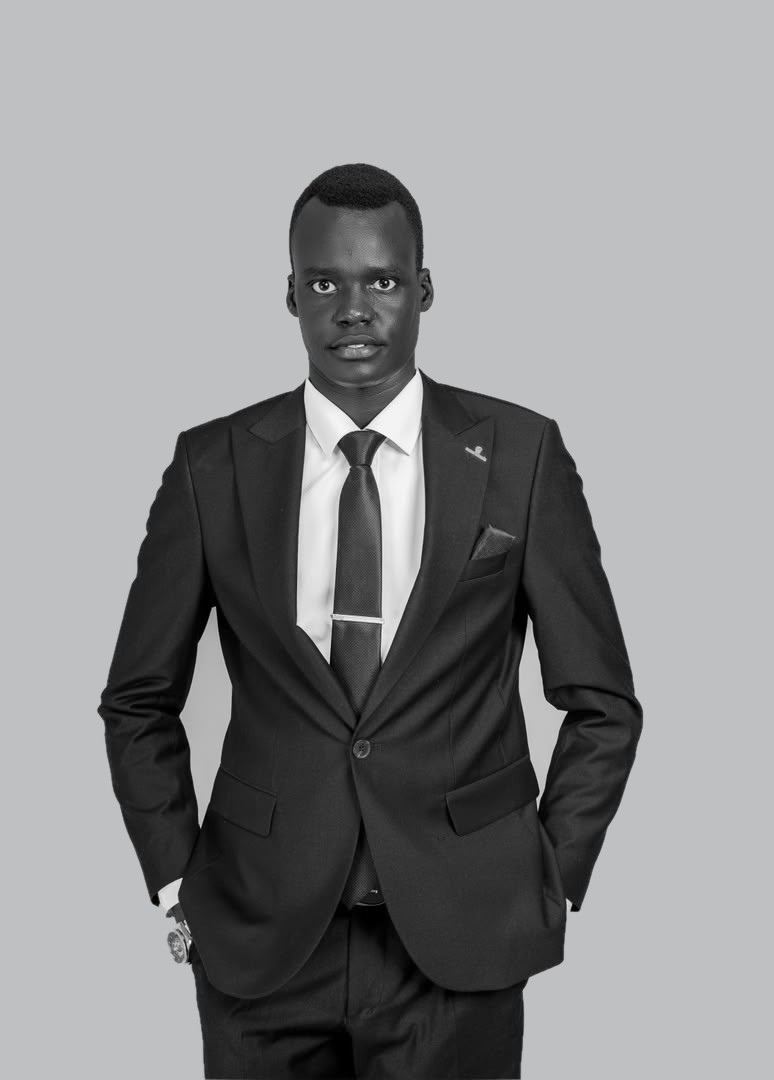
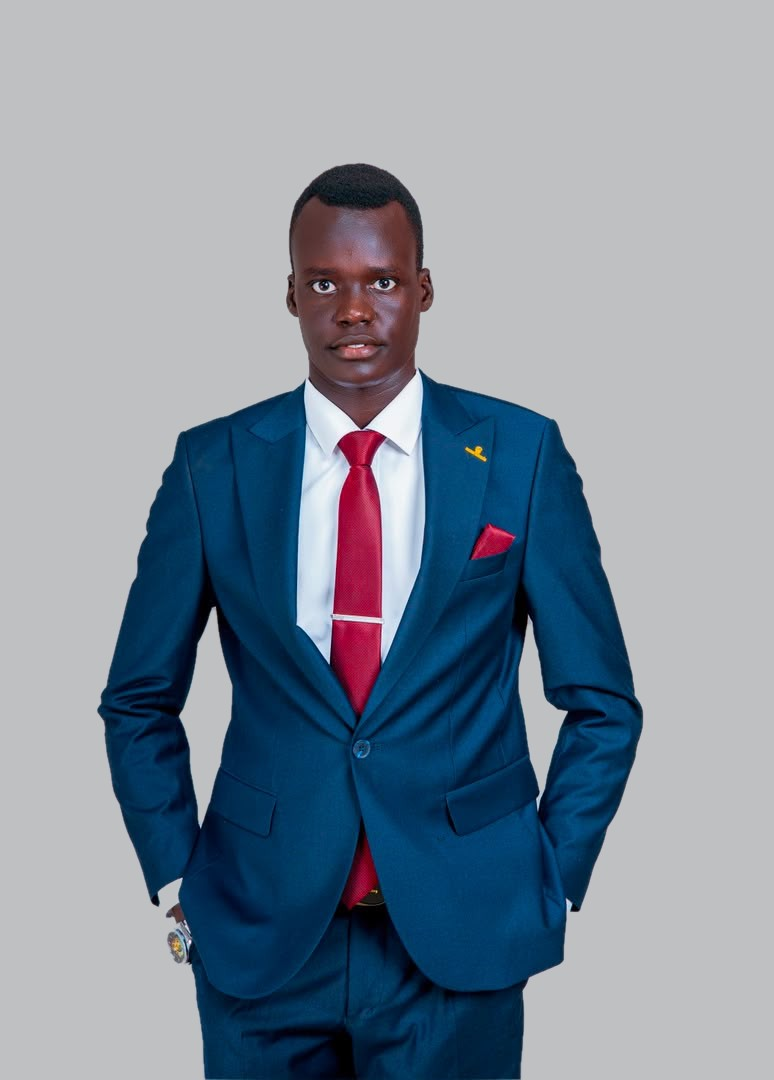
Use colour photography and show Nile Green Group structure

diff --git a/src/app/page.module.css b/src/app/page.module.css
@@ -14,7 +14,6 @@
   letter-spacing: -0.02em;
 }
 .statement { max-width: 32em; margin: 34px 0 0; font-size: clamp(1.15rem, 1.5vw, 1.4rem); line-height: 1.45; }
-.tagline { margin: 22px 0 0; font-weight: 600; }
 .actions { display: flex; flex-wrap: wrap; gap: 14px; margin-top: 34px; }
 .primary, .secondary, .invert { display: inline-block; padding: 14px 26px; text-decoration: none; border: 1px solid var(--black); }
 .primary { background: var(--black); color: var(--white); }
@@ -25,8 +24,10 @@
 .portrait img { display: block; width: 100%; height: auto; }
 .line { position: absolute; left: 0; right: 0; bottom: -1px; width: 100%; height: clamp(80px, 12vw, 170px); z-index: 2; fill: var(--black); }
 
-.practice { display: grid; grid-template-columns: minmax(0, 0.8fr) minmax(0, 1.2fr); gap: clamp(32px, 7vw, 120px); align-items: center; background: var(--black); color: var(--white); padding: 40px var(--gutter) 130px; }
-.practiceImage img { display: block; width: 100%; height: auto; }
+.practice { display: grid; grid-template-columns: minmax(0, 1.05fr) minmax(0, 0.95fr); gap: clamp(32px, 7vw, 120px); align-items: center; background: var(--black); color: var(--white); padding: 40px var(--gutter) 130px; }
+.practiceImages { display: grid; grid-template-columns: repeat(2, minmax(0, 1fr)); gap: 16px; align-items: start; }
+.practiceImages img { display: block; width: 100%; height: auto; }
+.practiceImages img:last-child { margin-top: 72px; }
 .practiceText h2 { font-size: clamp(2.2rem, 4.2vw, 4.2rem); line-height: 1.06; max-width: 13em; }
 .practiceText p { max-width: 36em; color: var(--mist); margin: 26px 0 0; }
 
@@ -48,10 +49,14 @@
 .groups span { color: var(--graphite); font-size: 1rem; }
 
 .ventures { padding: 130px var(--gutter); }
-.ventureList { display: grid; grid-template-columns: repeat(3, minmax(0, 1fr)); gap: clamp(32px, 5vw, 80px); margin-top: 60px; }
+.holding { display: grid; grid-template-columns: minmax(0, 1fr) minmax(0, 1fr); gap: 32px; align-items: center; margin-top: 56px; padding-bottom: 56px; border-bottom: 1px solid var(--silver); }
+.holdingLogo img { display: block; width: min(100%, 380px); height: auto; mix-blend-mode: multiply; }
+.holding h3 { font-size: clamp(2rem, 3vw, 2.9rem); line-height: 1.1; }
+.holding p { margin: 0; max-width: 34em; }
+.holding .status { margin-top: 6px !important; margin-bottom: 14px !important; }
+.ventureList { display: grid; grid-template-columns: repeat(2, minmax(0, 1fr)); gap: clamp(32px, 5vw, 80px); margin-top: 56px; }
 .ventureLogo { height: 120px; display: flex; align-items: center; margin-bottom: 26px; }
-.ventureLogo img { max-height: 120px; width: auto; max-width: 200px; filter: grayscale(1); mix-blend-mode: multiply; transition: filter 0.25s; }
-.ventureList article:hover img { filter: none; }
+.ventureLogo img { max-height: 120px; width: auto; max-width: 200px; mix-blend-mode: multiply; }
 .ventureList h3 { font-size: 1.75rem; line-height: 1.15; }
 .ventureList p { margin: 0; max-width: 30em; }
 .ventureList .status { margin-top: 6px !important; margin-bottom: 14px !important; }
@@ -73,7 +78,8 @@
   .actions { gap: 10px; margin-top: 26px; }
   .statement { margin-top: 22px; }
   .portrait { justify-self: center; max-width: 440px; padding-bottom: 20px; }
-  .practice, .work li, .groups, .ventureList, .insights { grid-template-columns: 1fr; }
+  .practice, .work li, .groups, .ventureList, .insights, .holding { grid-template-columns: 1fr; }
+  .practiceImages img:last-child { margin-top: 40px; }
   .work, .services, .ventures { padding-block: 84px; }
   .practice { padding-bottom: 84px; }
   .work li { gap: 10px; }

diff --git a/src/app/page.tsx b/src/app/page.tsx
@@ -1,6 +1,6 @@
 import Image from 'next/image'
 import Link from 'next/link'
-import { selectedWork, serviceGroups, site, ventures } from '@/content/site'
+import { holdingCompany, selectedWork, serviceGroups, site, ventures } from '@/content/site'
 import styles from './page.module.css'
 
 export default function HomePage() {
@@ -17,7 +17,6 @@ export default function HomePage() {
             I started a packaging company in Juba and built a flood-risk system for the Sudd. Now I help
             people and organisations turn their own ideas into work that gets finished.
           </p>
-          <p className={styles.tagline}>{site.tagline}</p>
           <div className={styles.actions}>
             <Link className={styles.primary} href="/work">
               See my work
@@ -30,7 +29,7 @@ export default function HomePage() {
         <div className={styles.portrait}>
           <Image
             src="/images/portrait-hero.jpg"
-            alt="Daniel Marial Reng Kudum in a dark suit and tie"
+            alt="Daniel Marial Reng Kudum in a navy suit and red tie"
             width={774}
             height={1080}
             priority
@@ -43,13 +42,20 @@ export default function HomePage() {
       </section>
 
       <section className={styles.practice}>
-        <div className={styles.practiceImage}>
+        <div className={styles.practiceImages}>
+          <Image
+            src="/images/flags-hall.jpg"
+            alt="Daniel standing beside the flag of South Sudan in a hall of national flags"
+            width={720}
+            height={1280}
+            sizes="(max-width: 800px) 46vw, 25vw"
+          />
           <Image
             src="/images/at-work.jpg"
             alt="Daniel working on a laptop at a curved wooden desk"
             width={592}
             height={1080}
-            sizes="(max-width: 800px) 100vw, 34vw"
+            sizes="(max-width: 800px) 46vw, 25vw"
           />
         </div>
         <div className={styles.practiceText}>
@@ -105,6 +111,16 @@ export default function HomePage() {
 
       <section className={styles.ventures}>
         <h2>Companies I have founded</h2>
+        <article className={styles.holding}>
+          <div className={styles.holdingLogo}>
+            <Image src={holdingCompany.logo} alt={`${holdingCompany.name} logo`} width={holdingCompany.width} height={holdingCompany.height} sizes="360px" />
+          </div>
+          <div>
+            <h3>{holdingCompany.name}</h3>
+            <p className={styles.status}>{holdingCompany.role}</p>
+            <p>{holdingCompany.summary}</p>
+          </div>
+        </article>
         <div className={styles.ventureList}>
           {ventures.map((venture) => (
             <article key={venture.name}>

diff --git a/src/content/site.ts b/src/content/site.ts
@@ -70,21 +70,22 @@ export const serviceGroups = [
   },
 ]
 
+export const holdingCompany = {
+  name: 'Nile Green Group',
+  logo: '/logos/nile-green-group.jpg',
+  width: 1080,
+  height: 590,
+  role: 'Founder',
+  summary: 'The Kigali-based holding company that owns and invests in the businesses below.',
+}
+
 export const ventures = [
-  {
-    name: 'Nile Green Group',
-    logo: '/logos/nile-green-group.jpg',
-    width: 1080,
-    height: 590,
-    role: 'Founder',
-    summary: 'A Kigali-based investment holding group.',
-  },
   {
     name: 'Nile Green Packaging',
     logo: '/logos/nile-green-packaging.jpg',
     width: 1024,
     height: 1024,
-    role: 'Founder',
+    role: 'Founder. Part of Nile Green Group.',
     summary:
       'Biodegradable paper packaging from Juba, South Sudan, moving from pilot production to automated manufacturing. Winner of ALU Ventures Lab Demo Day 2025, with a US$30,000 prize.',
   },
@@ -93,7 +94,7 @@ export const ventures = [
     logo: '/logos/nile-vertex-properties.jpg',
     width: 906,
     height: 1080,
-    role: 'Part of Nile Green Group',
+    role: 'Part of Nile Green Group.',
     summary: 'Property rentals, sales and investment in Kigali.',
   },
 ]

diff --git a/src/components/Footer.tsx b/src/components/Footer.tsx
@@ -8,7 +8,6 @@ export function Footer() {
     <footer className={styles.footer}>
       <div className={styles.brand}>
         <Image src="/logos/dmr-logo-white.svg" alt="DMR The Solution" width={3766} height={1112} />
-        <p>{site.tagline}</p>
       </div>
       <nav aria-label="Footer">
         {navigation.map((item) => (

diff --git a/scripts/prepare_assets.py b/scripts/prepare_assets.py
@@ -30,12 +30,17 @@ from scipy import ndimage as ni
 g=ImageOps.grayscale(Image.open(src+'photos/portrait-studio.png').convert('RGB'))
 arr=np.array(g); candidate=ni.binary_opening((arr>135)&(arr<225),iterations=3); lab,_=ni.label(candidate)
 edge=set(lab[0,:])|set(lab[:,0])|set(lab[:,-1]); edge.discard(0)
+# gaps between the arms and body are background too; the shirt sits in the centre band
+W=arr.shape[1]; centre=set(np.unique(lab[:,int(W*.40):int(W*.62)]))
+sizes=ni.sum(lab>0,lab,range(1,lab.max()+1))
+edge|={i+1 for i,n in enumerate(sizes) if n>60 and i+1 not in centre}
 bg=np.isin(lab,list(edge))
 bg=ni.binary_dilation(bg,iterations=4,mask=(arr>120)&(arr<228))
 alpha=Image.fromarray((~bg*255).astype('uint8')).filter(ImageFilter.GaussianBlur(0.9))
 base=Image.new('RGB',g.size,(191,192,194))
-base.paste(g.convert('RGB'),mask=alpha); base.save('public/images/portrait-hero.jpg',quality=90,optimize=True)
+base.paste(Image.open(src+'photos/portrait-studio.png').convert('RGB'),mask=alpha); base.save('public/images/portrait-hero.jpg',quality=90,optimize=True)
 print('bg share',bg.mean())
 jpg('at-work-monochrome.png','at-work.jpg')
+jpg('flags-hall.png','flags-hall.jpg')
 for n,o in [('nile-green-group','nile-green-group'),('nile-green-packaging','nile-green-packaging'),('nile-vertex-properties','nile-vertex-properties')]:
     Image.open(f'{src}logos/{n}.jpg').convert('RGB').save(f'public/logos/{o}.jpg',quality=90)
